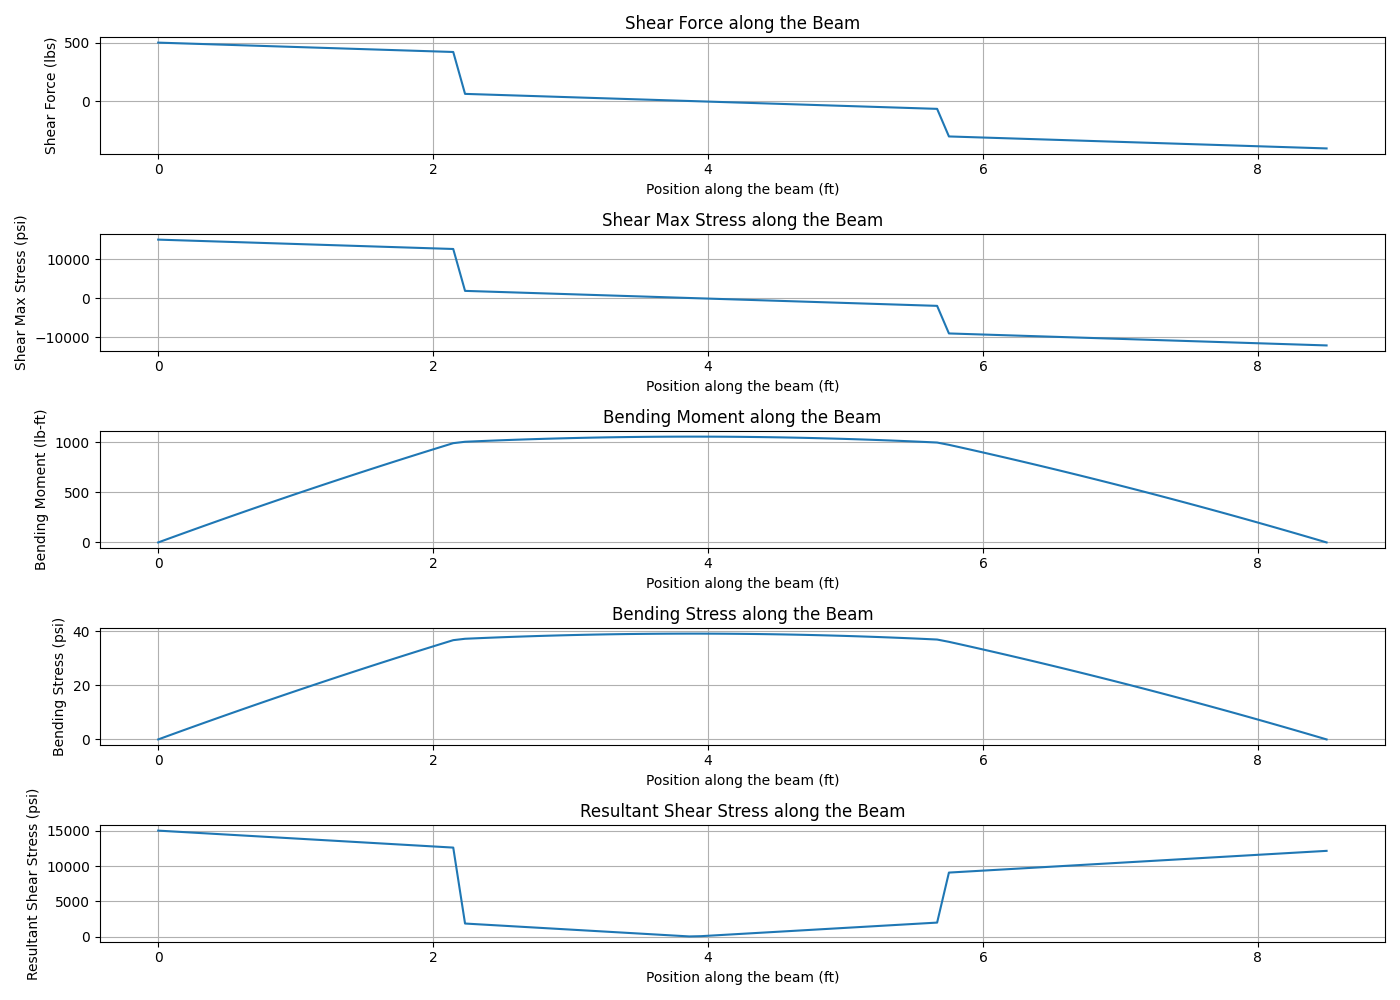
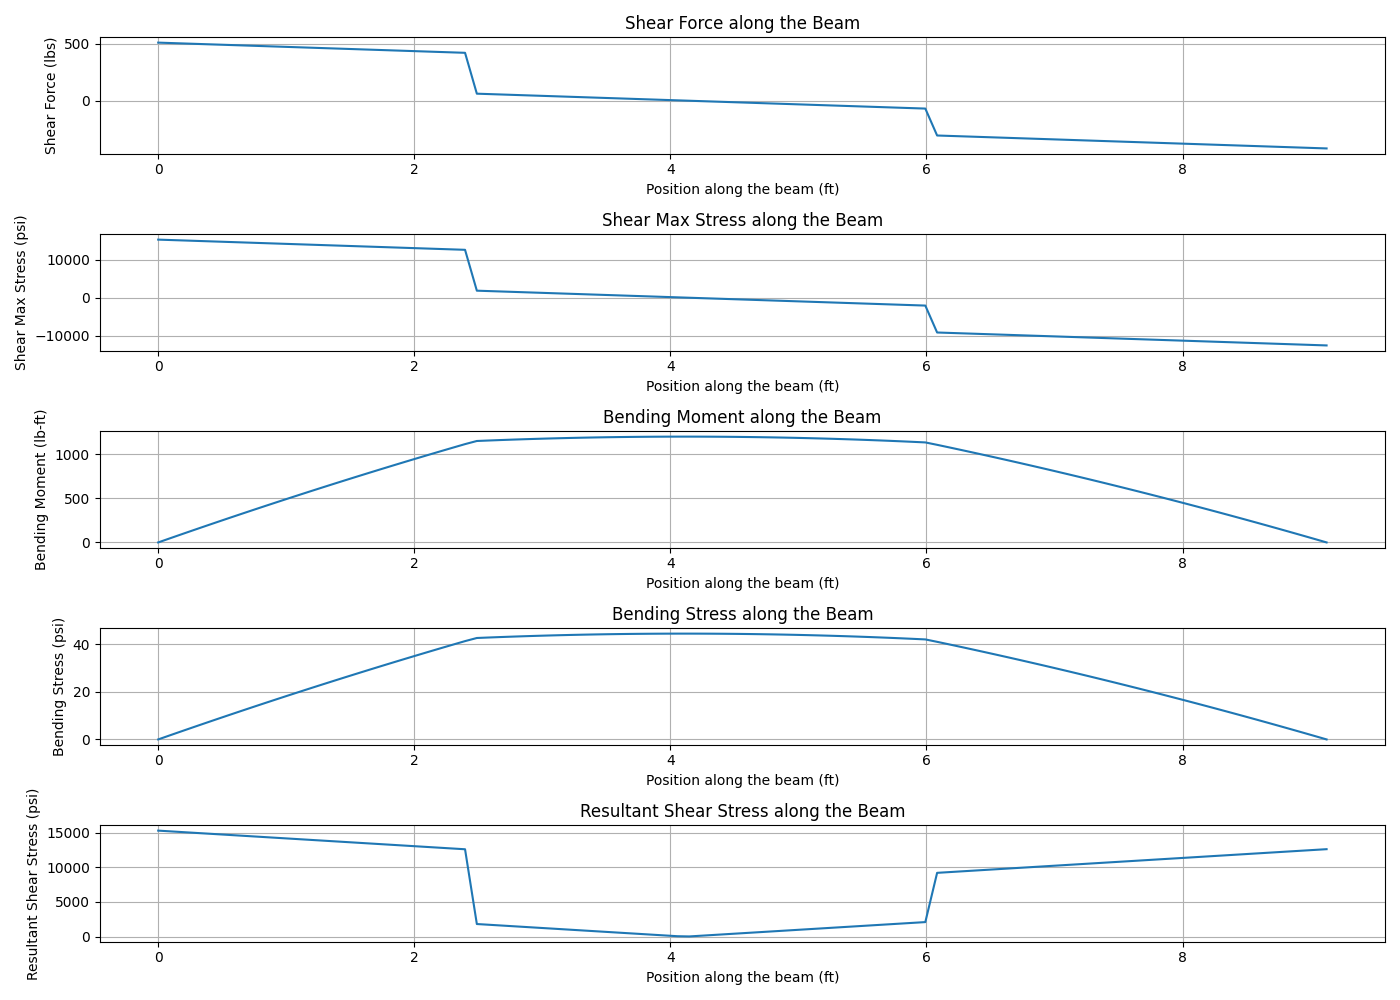
Calculations and Results
Code and results for a 6inx6in Ibeam with thickness=1in, 1095 steel. No factory of safety included in the results.

diff --git a/beam_analysis.py b/beam_analysis.py
@@ -2,14 +2,16 @@ import numpy as np
 import matplotlib.pyplot as plt
 import pandas as pd
 
+
+factor_of_safety = 1
 # Beam properties and loads
-L = 8.5  # Length of the beam in feet
-P1 = 357  # Point load 1 in lbs
-a1 = 2.17  # Distance of point load 1 from the left support in feet
-P2 = 234  # Point load 2 in lbs
-a2 = 8.5 - 2.82  # Distance of point load 2 from the left support in feet
-w_psf = 75  # Uniform load in lbs/ft^2
-F_w = 0  # Total horizontal wind force in lbs
+L = 9.125  # Length of the beam in feet
+P1 = factor_of_safety * 357  # Point load 1 in lbs
+a1 = 2.48  # Distance of point load 1 from the left support in feet
+P2 = factor_of_safety * 234  # Point load 2 in lbs
+a2 = L - 3.13  # Distance of point load 2 from the left support in feet
+w_psf = factor_of_safety * 75  # Uniform load in lbs/ft^2
+F_w = factor_of_safety * 0  # Total horizontal wind force in lbs
 
 
 ##### Dimensions ########
